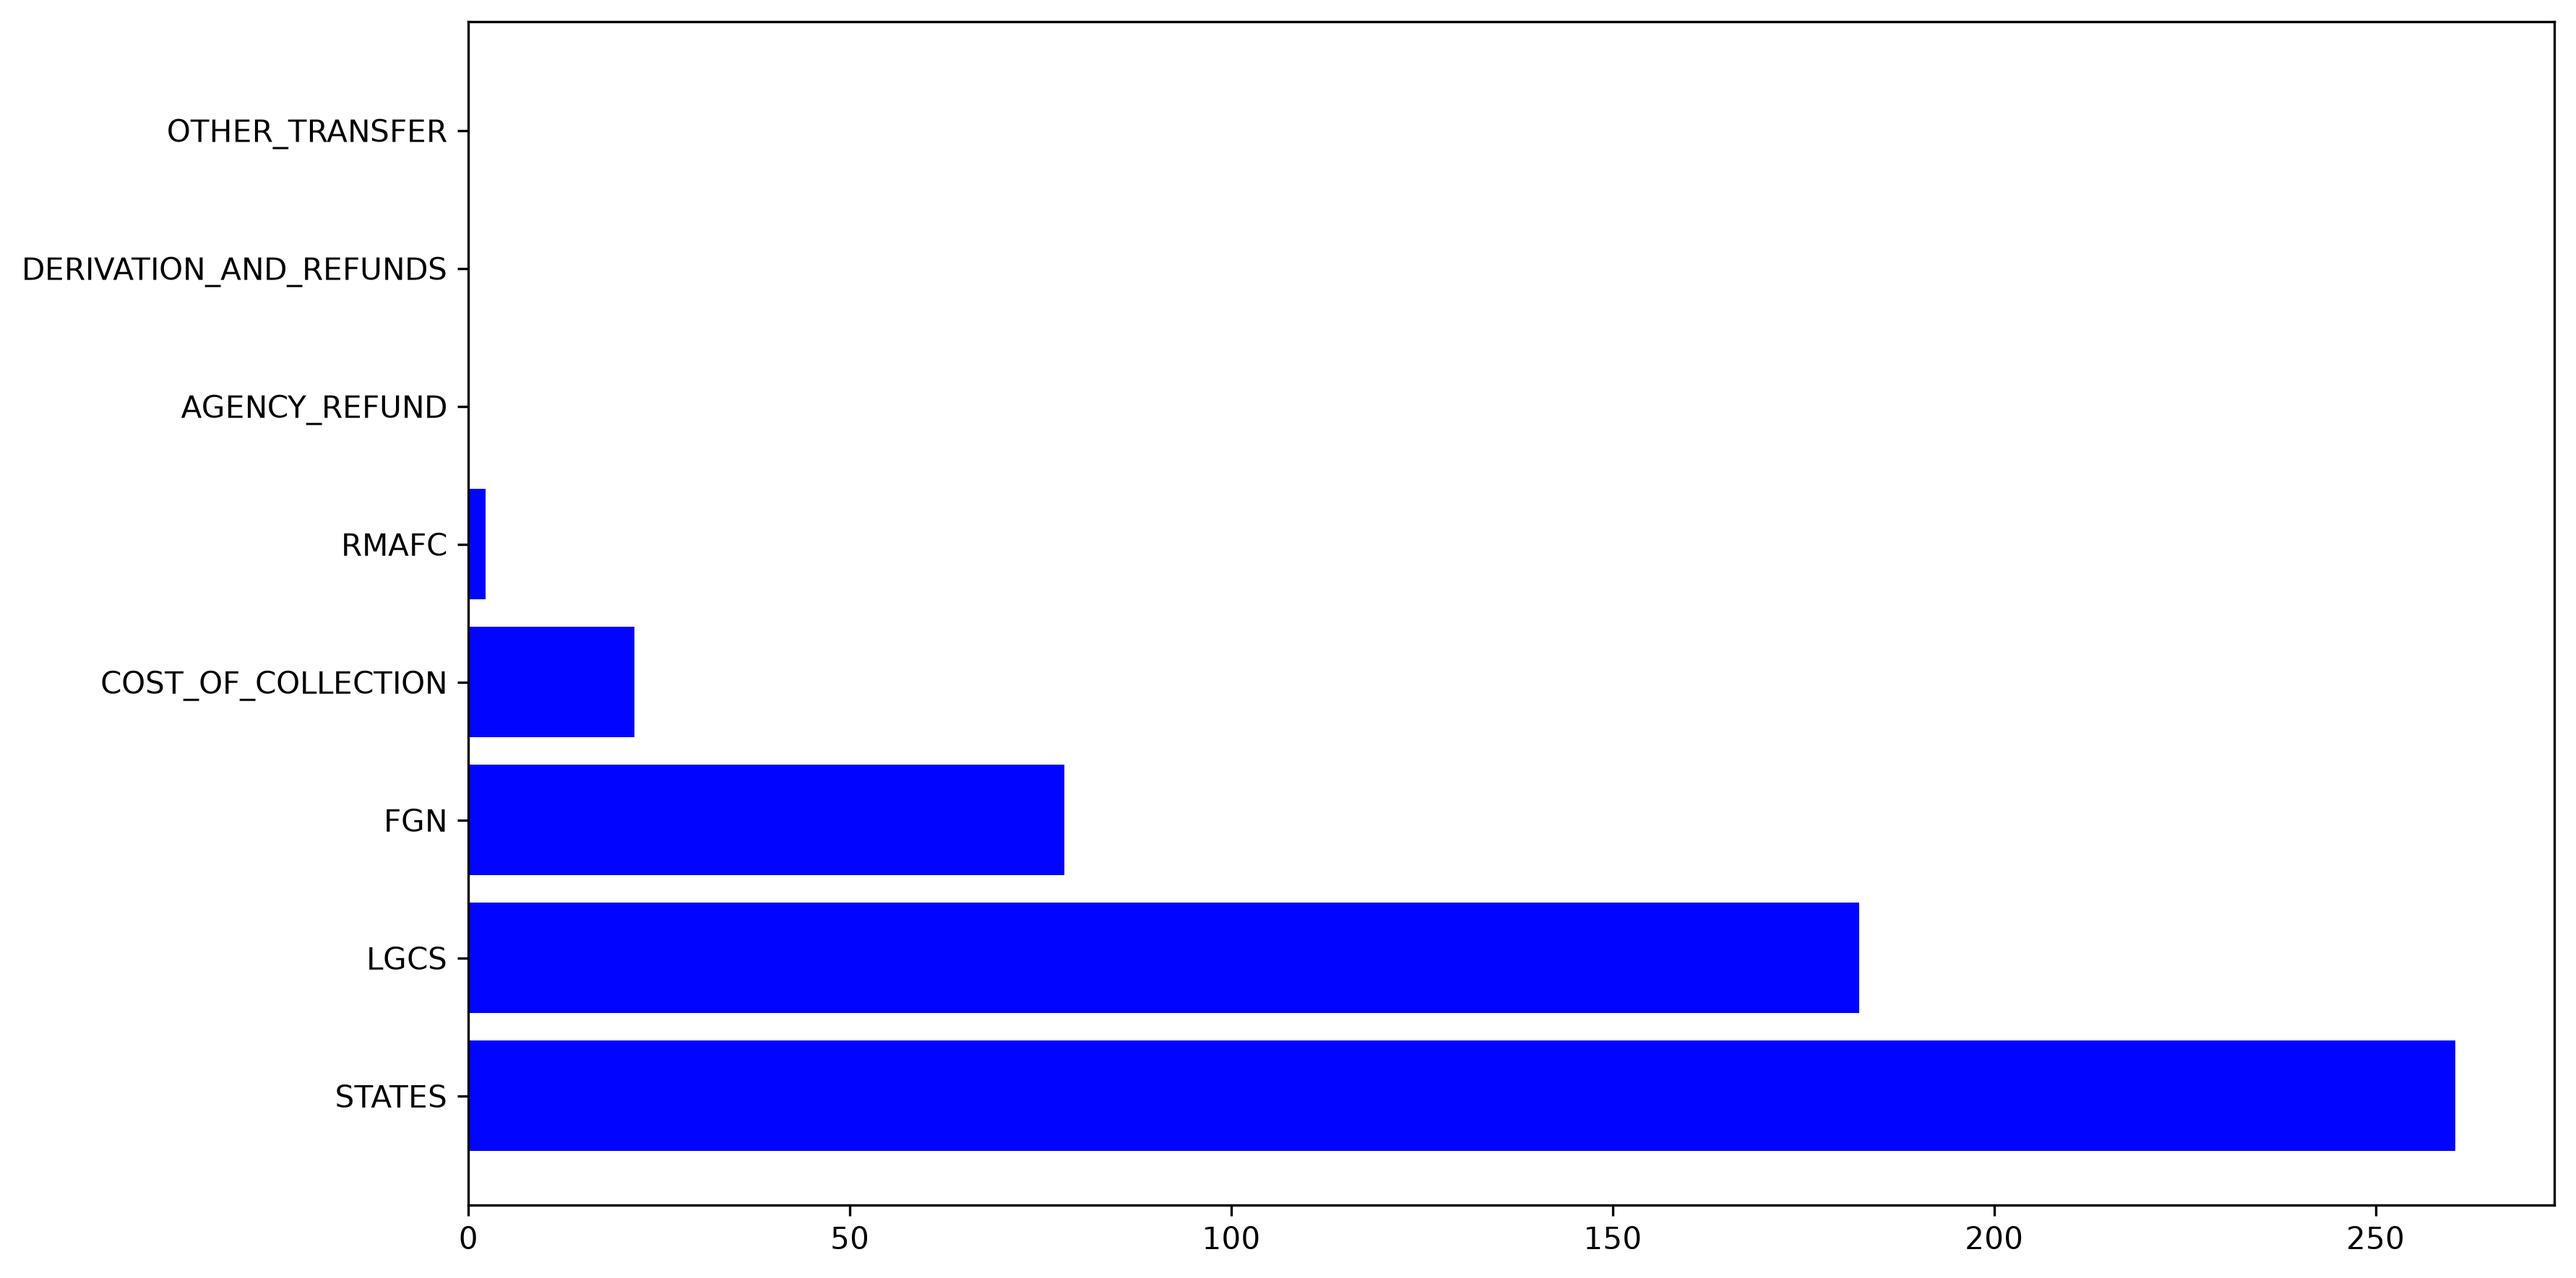
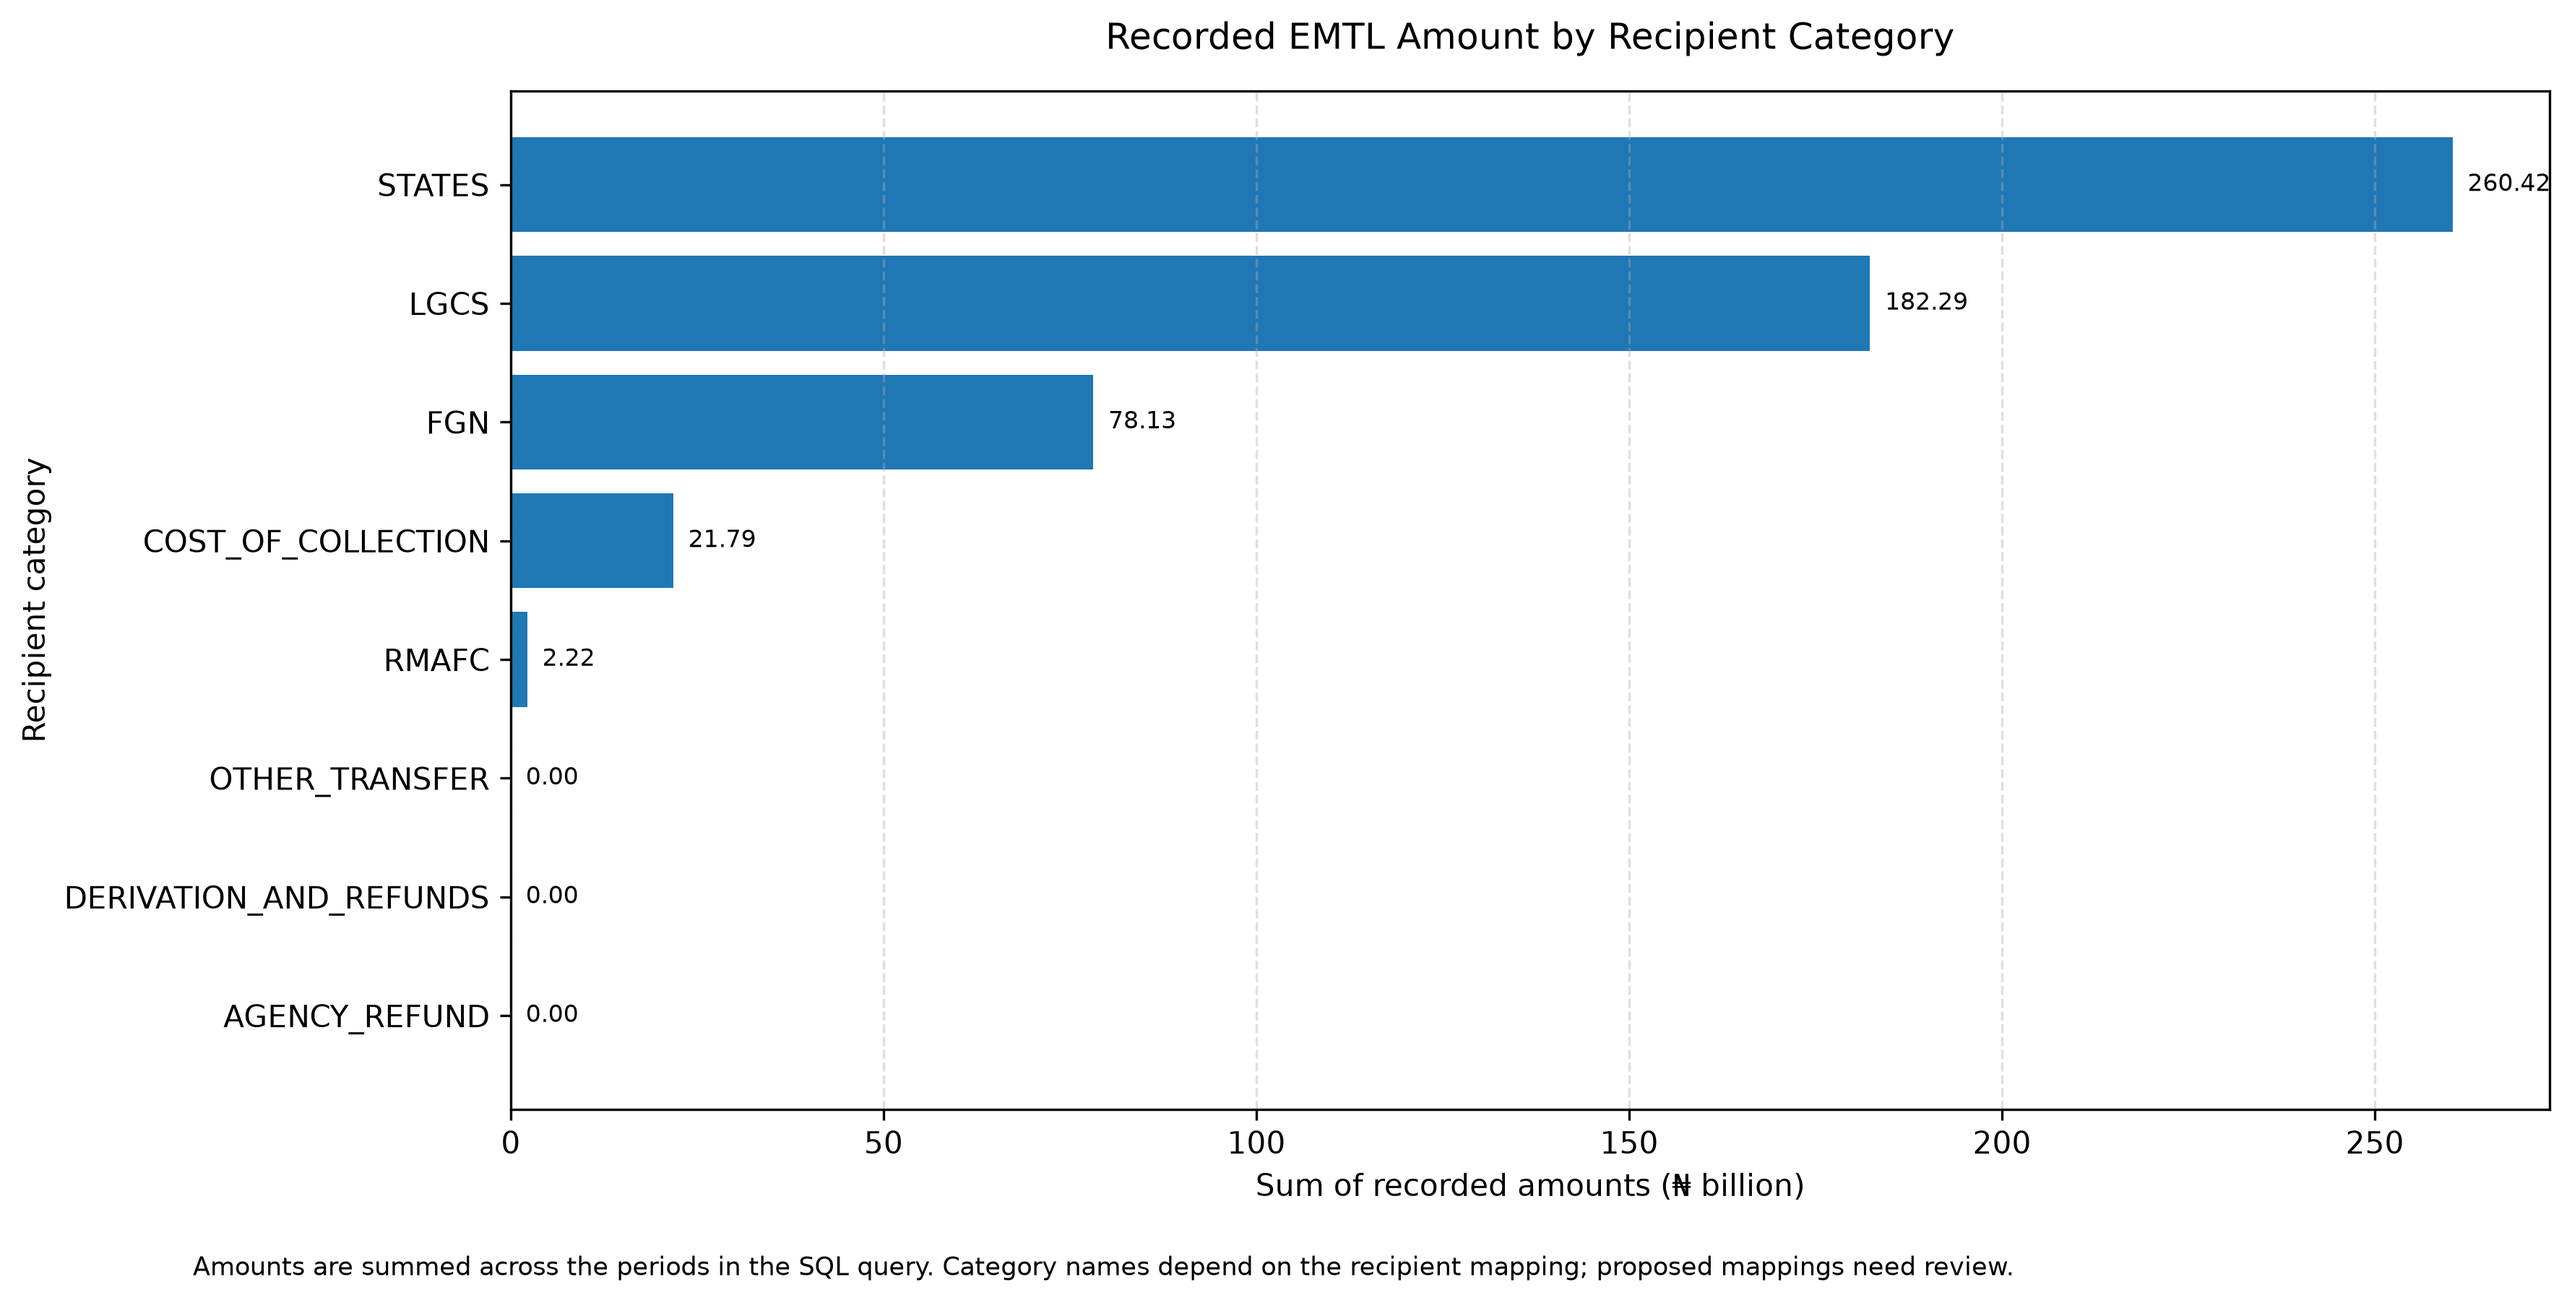
added labels and correct titles to the emtl category chart

diff --git a/src/analysis/plot_emtl_categories.py b/src/analysis/plot_emtl_categories.py
@@ -1,18 +1,65 @@
+from pathlib import Path
 import pandas as pd
 import matplotlib.pyplot as plt
-import os
-os.getcwd()
 
-df = pd.read_csv(r"data\processed\emtl_by_category.csv")
-df = df.sort_values(by = "sum_of_recorded_amounts_ngn", ascending = 0)
+PROJECT_ROOT = Path(__file__).resolve().parents[2]
+DATA_DIR = PROJECT_ROOT / "data" / "processed"
+OUTPUT_DIR = PROJECT_ROOT / "reports" / "figures"
 
-plt.figure(figsize=(12, 6))
-plt.barh(df['recipient_category'], df['sum_of_recorded_amounts_ngn']/1e9, color="#0105ff")
+csv_file = DATA_DIR / "emtl_by_category.csv"
+if not csv_file.exists():
+    raise FileNotFoundError(f"Could not find {csv_file}")
 
-plt.tight_layout()
+df = pd.read_csv(csv_file)
 
-output_dir = r"C:\Users\HP\Documents\GitHub\Nigeria Transfer Levy Analysis\reports\figures"
-os.makedirs(output_dir, exist_ok=True)
+required = ["recipient_category", "sum_of_recorded_amounts_ngn"]
+missing = [col for col in required if col not in df.columns]
+if missing:
+    raise ValueError(f"Category CSV is missing columns: {missing}")
 
-plt.savefig(os.path.join(output_dir, "emtl_by_category.png"), bbox_inches='tight', dpi=300)
+df["sum_of_recorded_amounts_ngn"] = pd.to_numeric(
+    df["sum_of_recorded_amounts_ngn"], errors="coerce"
+)
+if df["recipient_category"].isna().any():
+    raise ValueError("Some recipient_category values are blank.")
+"""if df["sum_of_recorded_amounts_ngn"].isna().any():
+    raise ValueError("Some category amounts are blank or not numeric.")"""
+
+df["amount_bn"] = df["sum_of_recorded_amounts_ngn"] / 1_000_000_000
+df = df.sort_values("amount_bn", ascending=True)
+
+# Give long category lists enough vertical space.
+chart_height = max(6, len(df) * 0.4)
+fig, ax = plt.subplots(figsize=(12, chart_height))
+
+bars = ax.barh(df["recipient_category"], df["amount_bn"])
+
+ax.set_title("Recorded EMTL Amount by Recipient Category", pad=14)
+ax.set_xlabel("Sum of recorded amounts (₦ billion)")
+ax.set_ylabel("Recipient category")
+ax.grid(axis="x", linestyle="--", alpha=0.4)
+
+# Put the amount beside each bar.
+for bar, amount in zip(bars, df["amount_bn"]):
+    ax.annotate(
+        f"{amount:,.2f}",
+        (bar.get_width(), bar.get_y() + bar.get_height() / 2),
+        xytext=(5, 0), textcoords="offset points",
+        va="center", fontsize=8
+    )
+
+fig.text(
+    0.08, 0.01,
+    "Amounts are summed across the periods in the SQL query. Category "
+    "names depend on the recipient mapping; proposed mappings need review.",
+    ha="left", fontsize=8.5
+)
+fig.tight_layout(rect=[0, 0.04, 1, 1])
+
+OUTPUT_DIR.mkdir(parents=True, exist_ok=True)
+output_file = OUTPUT_DIR / "emtl_by_category.png"
+fig.savefig(output_file, dpi=300, bbox_inches="tight")
+
+print(f"Chart saved to: {output_file}")
+print(f"Number of categories shown: {len(df)}")
 plt.show()
